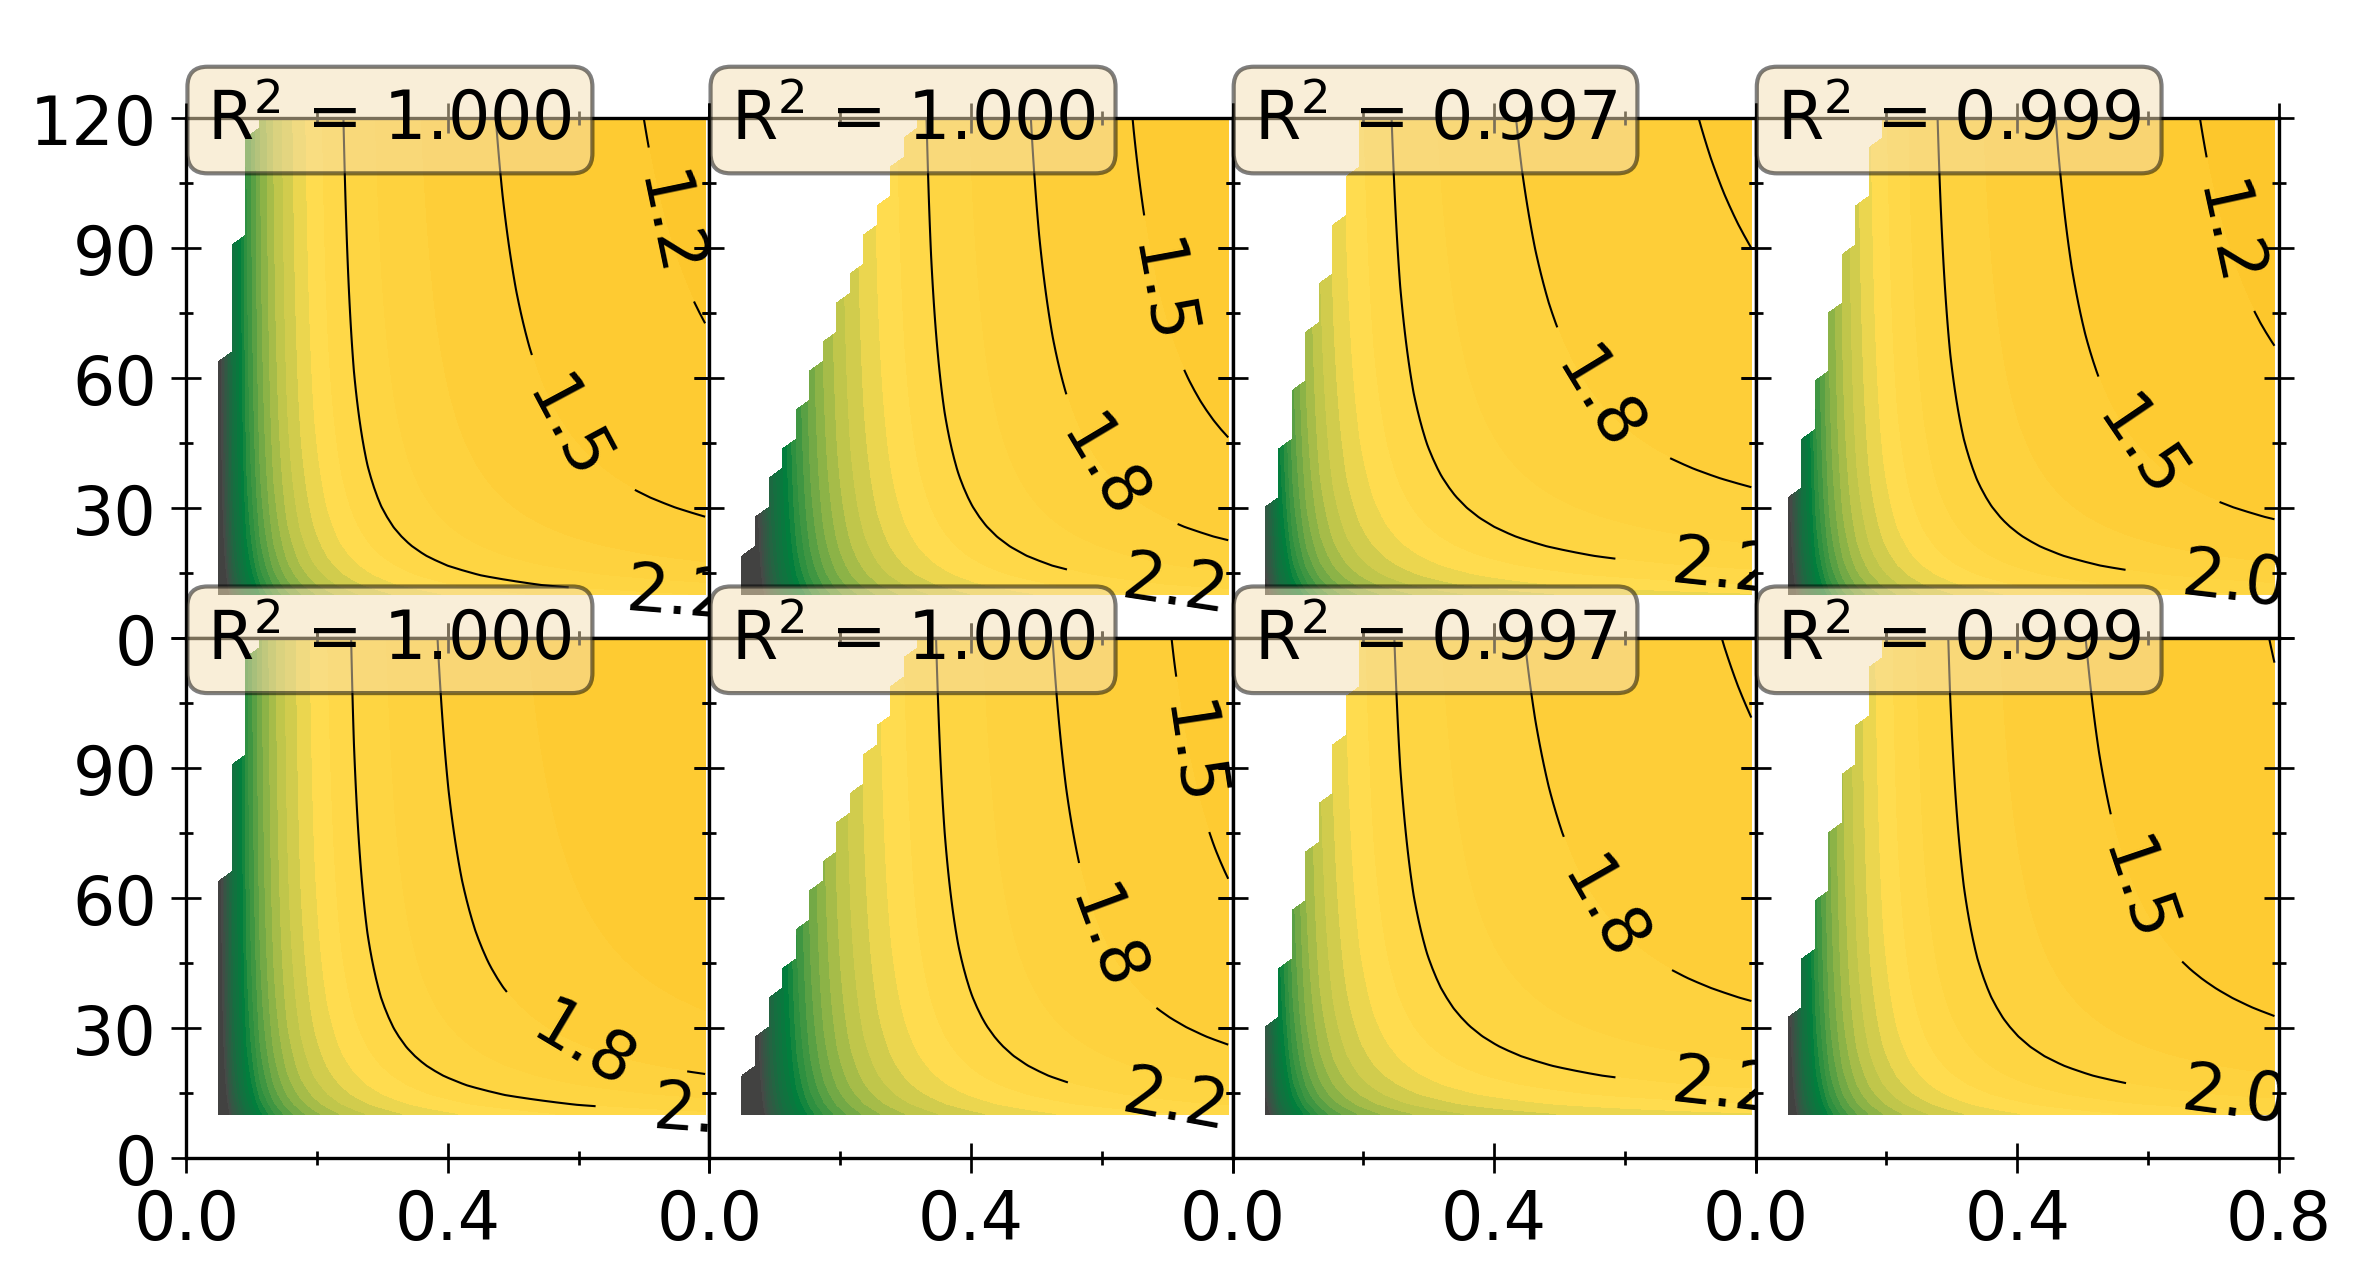
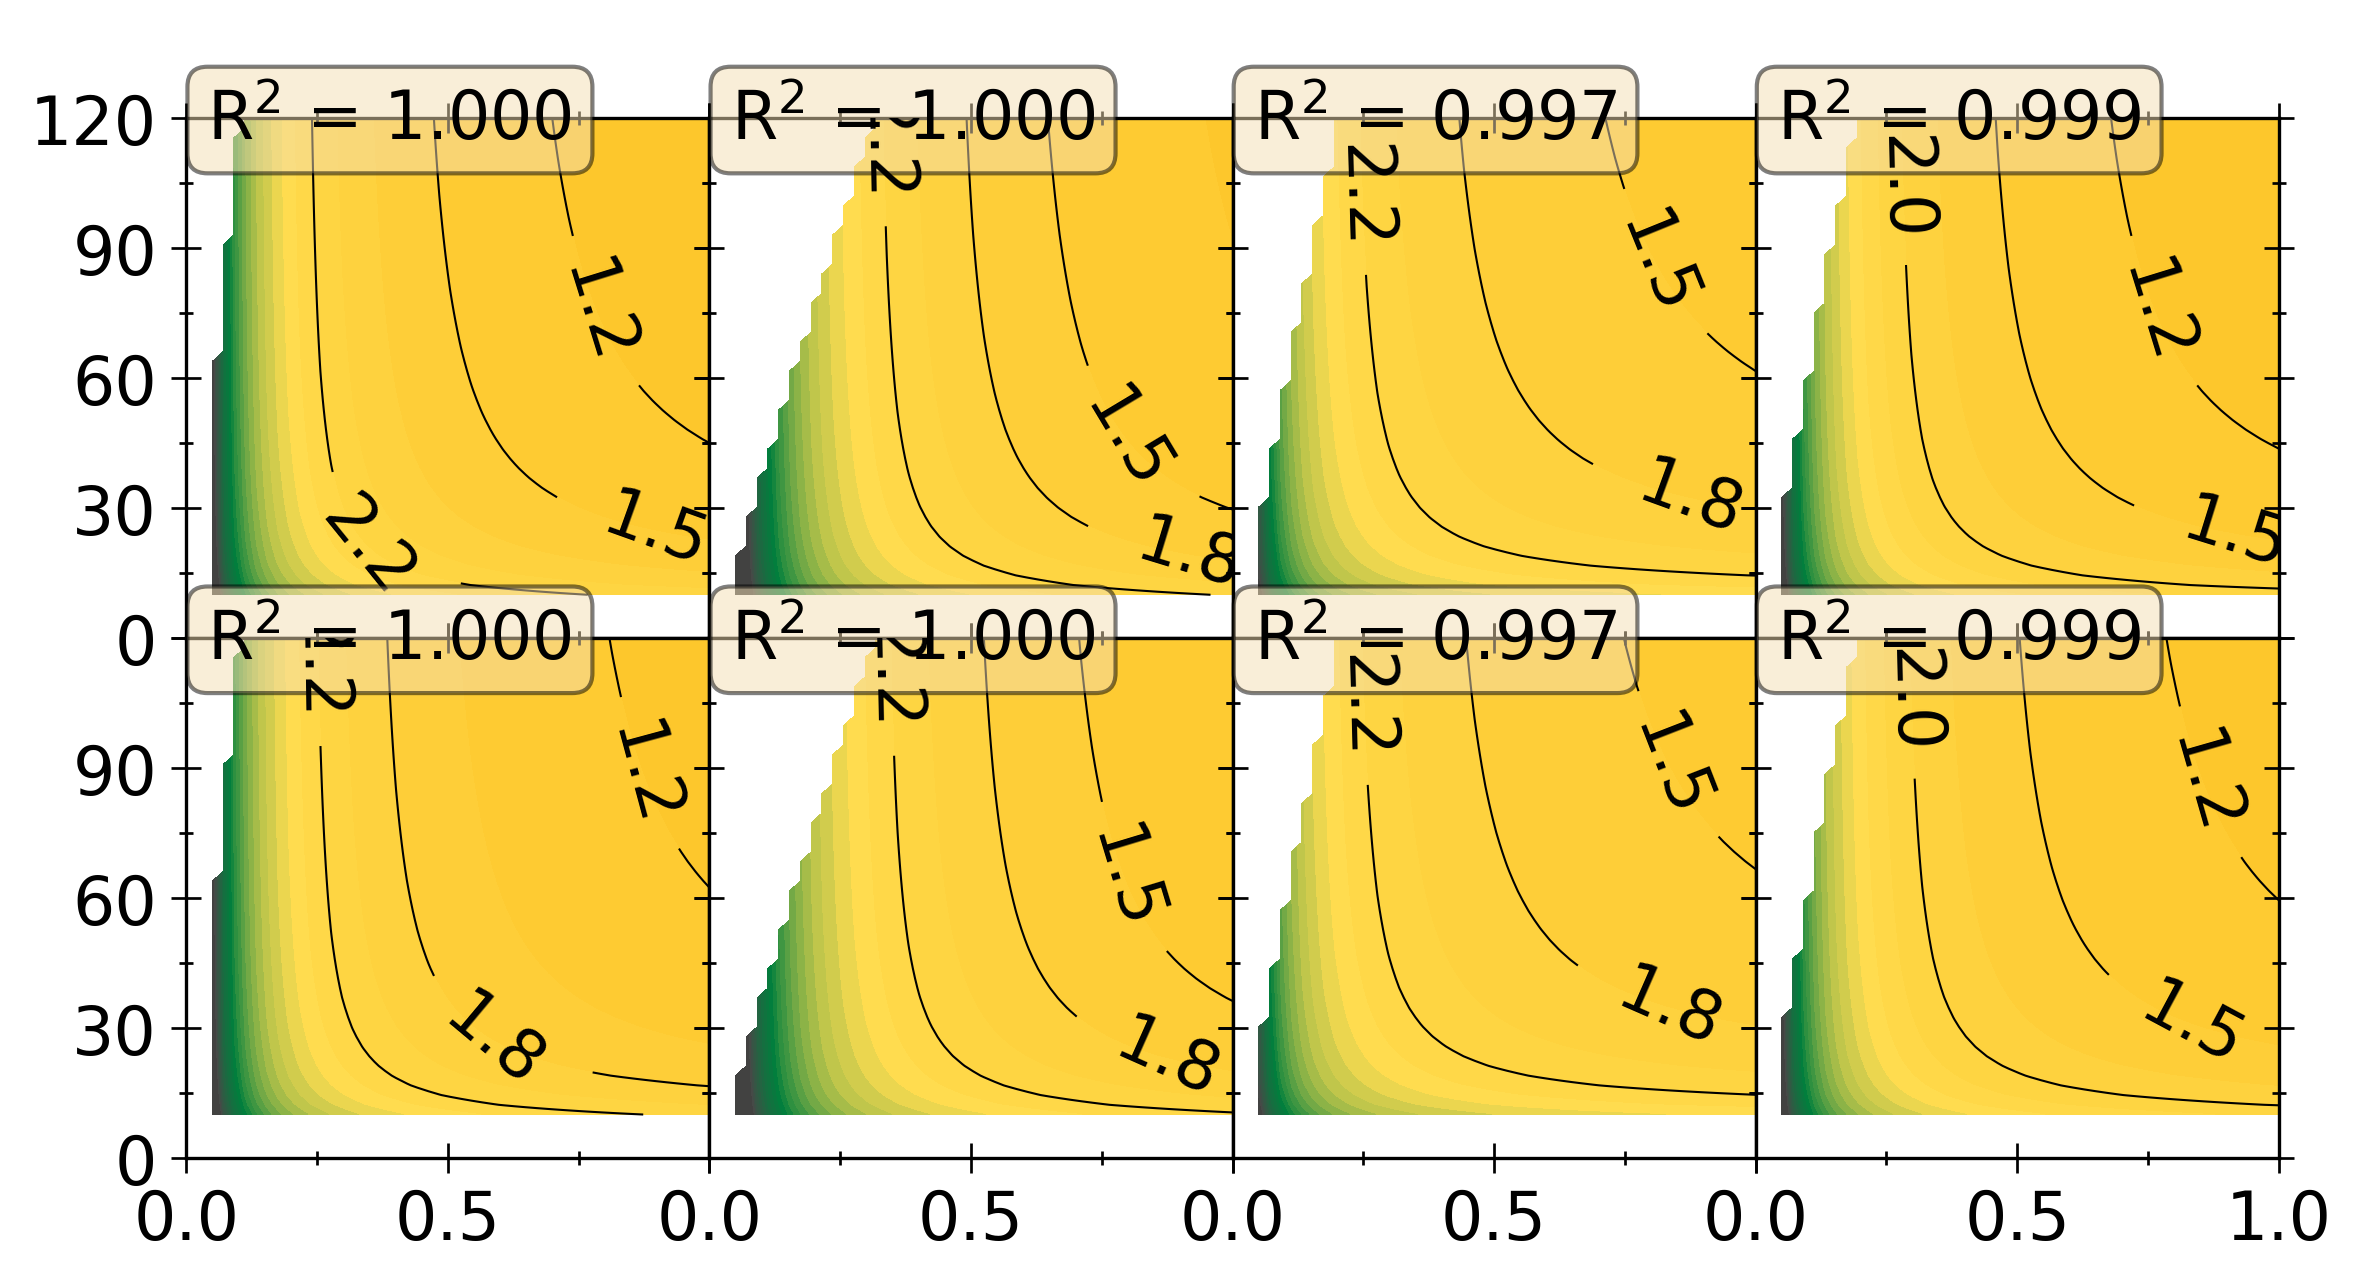
further minor updates

diff --git a/fermentation_insights/plots/MPSP_TRY_multipanel_plots/baseline_x0.2_productivities/succinic_all_TRY_plot.py b/fermentation_insights/plots/MPSP_TRY_multipanel_plots/baseline_x0.2_productivities/succinic_all_TRY_plot.py
@@ -154,10 +154,9 @@ for i, product_ID in zip(range(len(product_IDs)), product_IDs):
         # ##### X and Y ticks -- bounds rounding method (use for yield)        
         round_up_yield_ubound = True if np.round(yields_for_plot[-1],1)<yields_for_plot[-1] else False
         round_down_yield_lbound = True if np.round(yields_for_plot[0],1)>yields_for_plot[0] else False
-        x_ticks = np.arange(np.round(yields_for_plot[0],1)-0.1*round_down_yield_lbound, 
-                            np.round(yields_for_plot[-1],1)+0.1*round_up_yield_ubound+1e-5, 0.1)[::4]
-
-
+        # x_ticks = np.arange(np.round(yields_for_plot[0],1)-0.1*round_down_yield_lbound, 
+        #                     np.round(yields_for_plot[-1],1)+0.1*round_up_yield_ubound+1e-5, 0.1)[::4]
+        x_ticks = [0.0, 0.5, 1.0]
         # round_up_titer_ubound = True if np.round(titers_for_plot[-1],-1)<titers_for_plot[-1] else False
         # # round_down_titer_lbound = True if np.round(titers_for_plot[0],-1)>titers_for_plot[0] else False
         # y_ticks = np.arange(np.round(0,-1), 

diff --git a/fermentation_insights/plots/MPSP_TRY_multipanel_plots/baseline_productivities/succinic_all_TRY_fit_plot.py b/fermentation_insights/plots/MPSP_TRY_multipanel_plots/baseline_productivities/succinic_all_TRY_fit_plot.py
@@ -154,9 +154,9 @@ for i, product_ID in zip(range(len(product_IDs)), product_IDs):
         # ##### X and Y ticks -- bounds rounding method (use for yield)        
         round_up_yield_ubound = True if np.round(yields_for_plot[-1],1)<yields_for_plot[-1] else False
         round_down_yield_lbound = True if np.round(yields_for_plot[0],1)>yields_for_plot[0] else False
-        x_ticks = np.arange(np.round(yields_for_plot[0],1)-0.1*round_down_yield_lbound, 
-                            np.round(yields_for_plot[-1],1)+0.1*round_up_yield_ubound+1e-5, 0.1)[::4]
-
+        # x_ticks = np.arange(np.round(yields_for_plot[0],1)-0.1*round_down_yield_lbound, 
+        #                     np.round(yields_for_plot[-1],1)+0.1*round_up_yield_ubound+1e-5, 0.1)[::4]
+        x_ticks = [0.0, 0.5, 1.0]
 
         # round_up_titer_ubound = True if np.round(titers_for_plot[-1],-1)<titers_for_plot[-1] else False
         # # round_down_titer_lbound = True if np.round(titers_for_plot[0],-1)>titers_for_plot[0] else False

diff --git a/fermentation_insights/plots/MPSP_TRY_multipanel_plots/baseline_productivities/succinic_all_TRY_plot.py b/fermentation_insights/plots/MPSP_TRY_multipanel_plots/baseline_productivities/succinic_all_TRY_plot.py
@@ -154,9 +154,9 @@ for i, product_ID in zip(range(len(product_IDs)), product_IDs):
         # ##### X and Y ticks -- bounds rounding method (use for yield)        
         round_up_yield_ubound = True if np.round(yields_for_plot[-1],1)<yields_for_plot[-1] else False
         round_down_yield_lbound = True if np.round(yields_for_plot[0],1)>yields_for_plot[0] else False
-        x_ticks = np.arange(np.round(yields_for_plot[0],1)-0.1*round_down_yield_lbound, 
-                            np.round(yields_for_plot[-1],1)+0.1*round_up_yield_ubound+1e-5, 0.1)[::4]
-
+        # x_ticks = np.arange(np.round(yields_for_plot[0],1)-0.1*round_down_yield_lbound, 
+        #                     np.round(yields_for_plot[-1],1)+0.1*round_up_yield_ubound+1e-5, 0.1)[::4]
+        x_ticks = [0.0, 0.5, 1.0]
 
         # round_up_titer_ubound = True if np.round(titers_for_plot[-1],-1)<titers_for_plot[-1] else False
         # # round_down_titer_lbound = True if np.round(titers_for_plot[0],-1)>titers_for_plot[0] else False

diff --git a/fermentation_insights/plots/MPSP_TRY_multipanel_plots/baseline_x0.2_productivities/succinic_all_TRY_fit_plot.py b/fermentation_insights/plots/MPSP_TRY_multipanel_plots/baseline_x0.2_productivities/succinic_all_TRY_fit_plot.py
@@ -154,9 +154,9 @@ for i, product_ID in zip(range(len(product_IDs)), product_IDs):
         # ##### X and Y ticks -- bounds rounding method (use for yield)        
         round_up_yield_ubound = True if np.round(yields_for_plot[-1],1)<yields_for_plot[-1] else False
         round_down_yield_lbound = True if np.round(yields_for_plot[0],1)>yields_for_plot[0] else False
-        x_ticks = np.arange(np.round(yields_for_plot[0],1)-0.1*round_down_yield_lbound, 
-                            np.round(yields_for_plot[-1],1)+0.1*round_up_yield_ubound+1e-5, 0.1)[::4]
-
+        # x_ticks = np.arange(np.round(yields_for_plot[0],1)-0.1*round_down_yield_lbound, 
+        #                     np.round(yields_for_plot[-1],1)+0.1*round_up_yield_ubound+1e-5, 0.1)[::4]
+        x_ticks = [0.0, 0.5, 1.0]
 
         # round_up_titer_ubound = True if np.round(titers_for_plot[-1],-1)<titers_for_plot[-1] else False
         # # round_down_titer_lbound = True if np.round(titers_for_plot[0],-1)>titers_for_plot[0] else False

diff --git a/fermentation_insights/plots/MPSP_TRY_multipanel_plots/baseline_x5.0_productivities/succinic_all_TRY_fit_plot.py b/fermentation_insights/plots/MPSP_TRY_multipanel_plots/baseline_x5.0_productivities/succinic_all_TRY_fit_plot.py
@@ -154,9 +154,9 @@ for i, product_ID in zip(range(len(product_IDs)), product_IDs):
         # ##### X and Y ticks -- bounds rounding method (use for yield)        
         round_up_yield_ubound = True if np.round(yields_for_plot[-1],1)<yields_for_plot[-1] else False
         round_down_yield_lbound = True if np.round(yields_for_plot[0],1)>yields_for_plot[0] else False
-        x_ticks = np.arange(np.round(yields_for_plot[0],1)-0.1*round_down_yield_lbound, 
-                            np.round(yields_for_plot[-1],1)+0.1*round_up_yield_ubound+1e-5, 0.1)[::4]
-
+        # x_ticks = np.arange(np.round(yields_for_plot[0],1)-0.1*round_down_yield_lbound, 
+        #                     np.round(yields_for_plot[-1],1)+0.1*round_up_yield_ubound+1e-5, 0.1)[::4]
+        x_ticks = [0.0, 0.5, 1.0]
 
         # round_up_titer_ubound = True if np.round(titers_for_plot[-1],-1)<titers_for_plot[-1] else False
         # # round_down_titer_lbound = True if np.round(titers_for_plot[0],-1)>titers_for_plot[0] else False

diff --git a/fermentation_insights/plots/MPSP_TRY_multipanel_plots/baseline_x5.0_productivities/succinic_all_TRY_plot.py b/fermentation_insights/plots/MPSP_TRY_multipanel_plots/baseline_x5.0_productivities/succinic_all_TRY_plot.py
@@ -154,9 +154,9 @@ for i, product_ID in zip(range(len(product_IDs)), product_IDs):
         # ##### X and Y ticks -- bounds rounding method (use for yield)        
         round_up_yield_ubound = True if np.round(yields_for_plot[-1],1)<yields_for_plot[-1] else False
         round_down_yield_lbound = True if np.round(yields_for_plot[0],1)>yields_for_plot[0] else False
-        x_ticks = np.arange(np.round(yields_for_plot[0],1)-0.1*round_down_yield_lbound, 
-                            np.round(yields_for_plot[-1],1)+0.1*round_up_yield_ubound+1e-5, 0.1)[::4]
-
+        # x_ticks = np.arange(np.round(yields_for_plot[0],1)-0.1*round_down_yield_lbound, 
+        #                     np.round(yields_for_plot[-1],1)+0.1*round_up_yield_ubound+1e-5, 0.1)[::4]
+        x_ticks = [0.0, 0.5, 1.0]
 
         # round_up_titer_ubound = True if np.round(titers_for_plot[-1],-1)<titers_for_plot[-1] else False
         # # round_down_titer_lbound = True if np.round(titers_for_plot[0],-1)>titers_for_plot[0] else False

diff --git a/fermentation_insights/plots/d_contribs_TRY_multipanel_plots/baseline_productivities/succinic_all_dcon_TRY_fit_plot.py b/fermentation_insights/plots/d_contribs_TRY_multipanel_plots/baseline_productivities/succinic_all_dcon_TRY_fit_plot.py
@@ -166,9 +166,9 @@ for i, product_ID in zip(range(len(product_IDs)), product_IDs):
         # ##### X and Y ticks -- bounds rounding method (use for yield)        
         round_up_yield_ubound = True if np.round(yields_for_plot[-1],1)<yields_for_plot[-1] else False
         round_down_yield_lbound = True if np.round(yields_for_plot[0],1)>yields_for_plot[0] else False
-        x_ticks = np.arange(np.round(yields_for_plot[0],1)-0.1*round_down_yield_lbound, 
-                            np.round(yields_for_plot[-1],1)+0.1*round_up_yield_ubound+1e-5, 0.1)[::4]
-
+        # x_ticks = np.arange(np.round(yields_for_plot[0],1)-0.1*round_down_yield_lbound, 
+        #                     np.round(yields_for_plot[-1],1)+0.1*round_up_yield_ubound+1e-5, 0.1)[::4]
+        x_ticks = [0.0, 0.5, 1.0]
 
         # round_up_titer_ubound = True if np.round(titers_for_plot[-1],-1)<titers_for_plot[-1] else False
         # # round_down_titer_lbound = True if np.round(titers_for_plot[0],-1)>titers_for_plot[0] else False

diff --git a/fermentation_insights/plots/RI_MPSP_TRY_multipanel_plots/succinic_all_RI_TRY_fit_plot.py b/fermentation_insights/plots/RI_MPSP_TRY_multipanel_plots/succinic_all_RI_TRY_fit_plot.py
@@ -169,9 +169,9 @@ for i, product_ID in zip(range(len(product_IDs)), product_IDs):
         # ##### X and Y ticks -- bounds rounding method (use for yield)        
         round_up_yield_ubound = True if np.round(yields_for_plot[-1],1)<yields_for_plot[-1] else False
         round_down_yield_lbound = True if np.round(yields_for_plot[0],1)>yields_for_plot[0] else False
-        x_ticks = np.arange(np.round(yields_for_plot[0],1)-0.1*round_down_yield_lbound, 
-                            np.round(yields_for_plot[-1],1)+0.1*round_up_yield_ubound+1e-5, 0.1)[::4]
-
+        # x_ticks = np.arange(np.round(yields_for_plot[0],1)-0.1*round_down_yield_lbound, 
+        #                     np.round(yields_for_plot[-1],1)+0.1*round_up_yield_ubound+1e-5, 0.1)[::4]
+        x_ticks = [0, 0.5, 1]
 
         # round_up_titer_ubound = True if np.round(titers_for_plot[-1],-1)<titers_for_plot[-1] else False
         # # round_down_titer_lbound = True if np.round(titers_for_plot[0],-1)>titers_for_plot[0] else False

diff --git a/fermentation_insights/plots/recoveries_TRY_multipanel_plots/succinic_all_TRY_recoveries_plot.py b/fermentation_insights/plots/recoveries_TRY_multipanel_plots/succinic_all_TRY_recoveries_plot.py
@@ -159,7 +159,7 @@ for i, product_ID in zip(range(len(product_IDs)), product_IDs):
         #!!!
         # x_ticks = np.arange(np.round(yields_for_plot[0],1)-0.1*round_down_yield_lbound, 
         #                     np.round(yields_for_plot[-1],1)+0.1*round_up_yield_ubound+1e-5, 0.1)[::4]
-        x_ticks = [0, 0.6, 1.2]
+        x_ticks = [0.0, 0.5, 1.0]
 
         # round_up_titer_ubound = True if np.round(titers_for_plot[-1],-1)<titers_for_plot[-1] else False
         # # round_down_titer_lbound = True if np.round(titers_for_plot[0],-1)>titers_for_plot[0] else False
